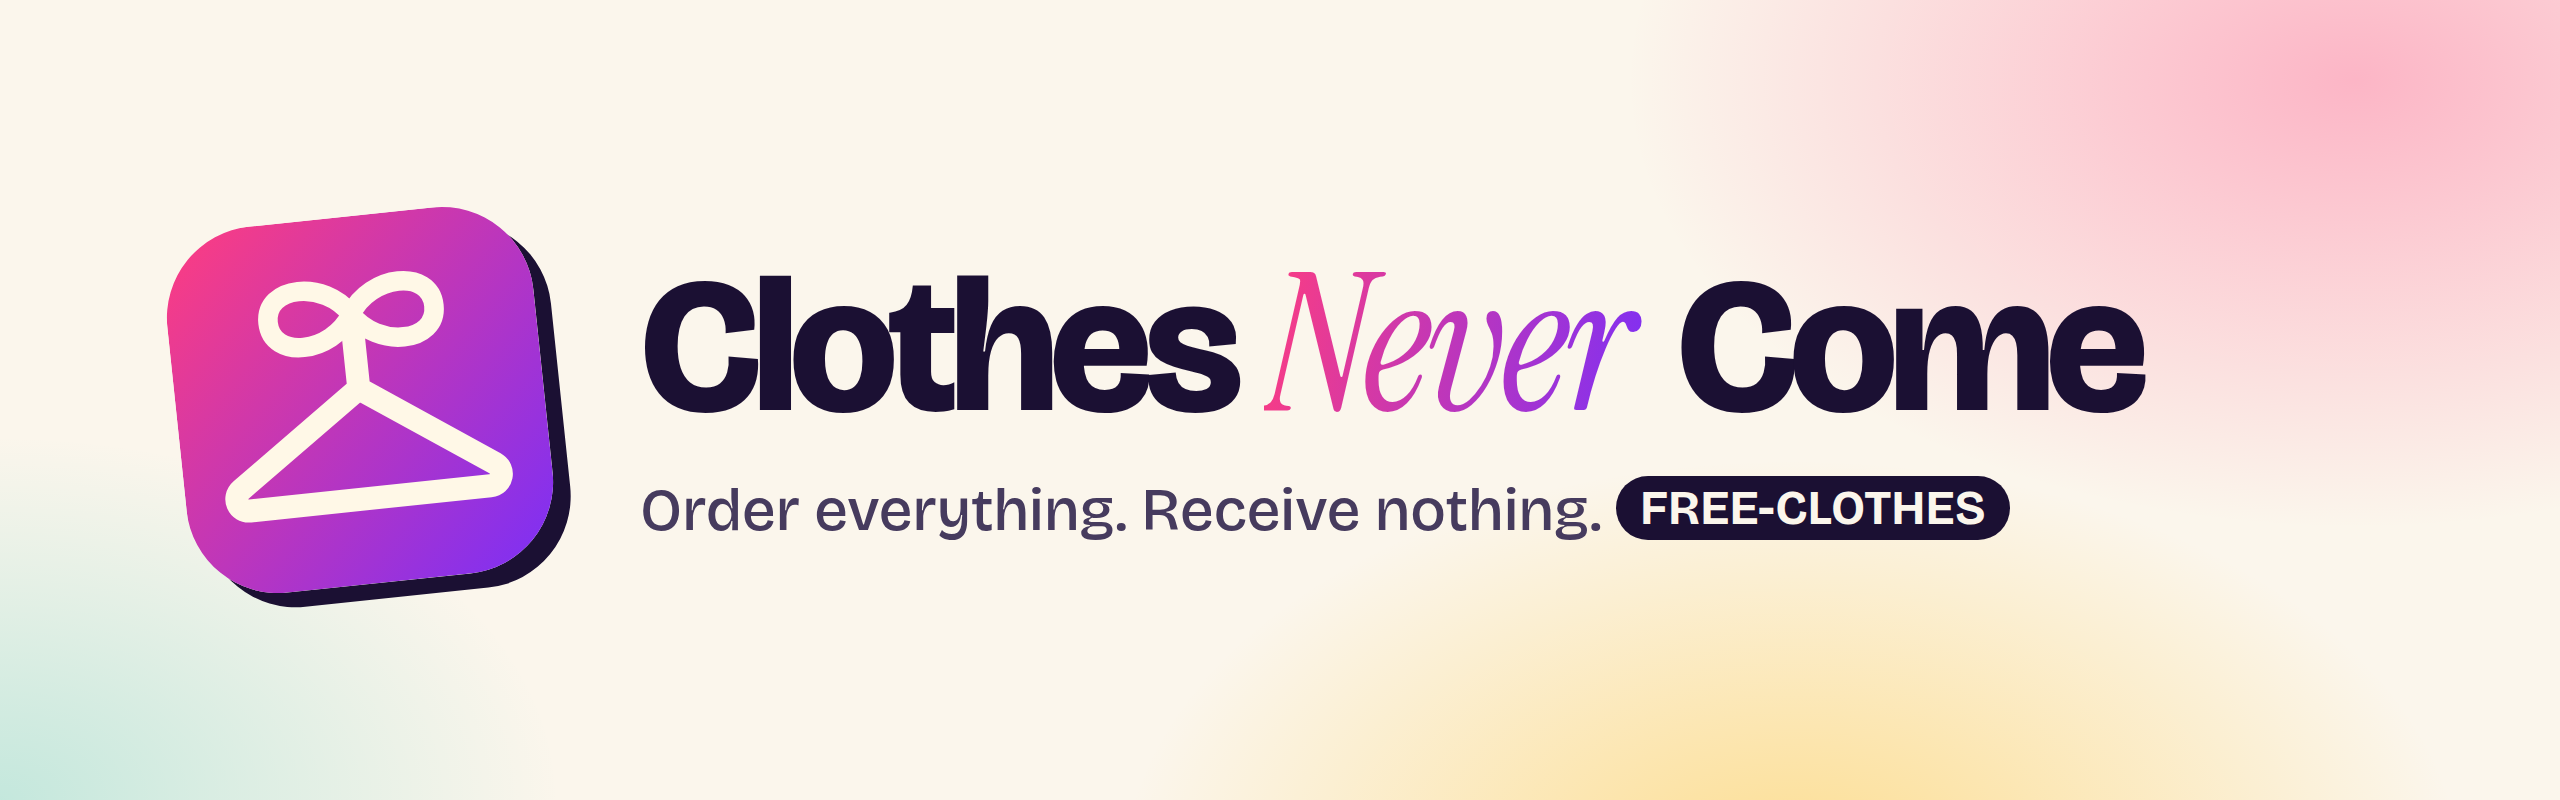
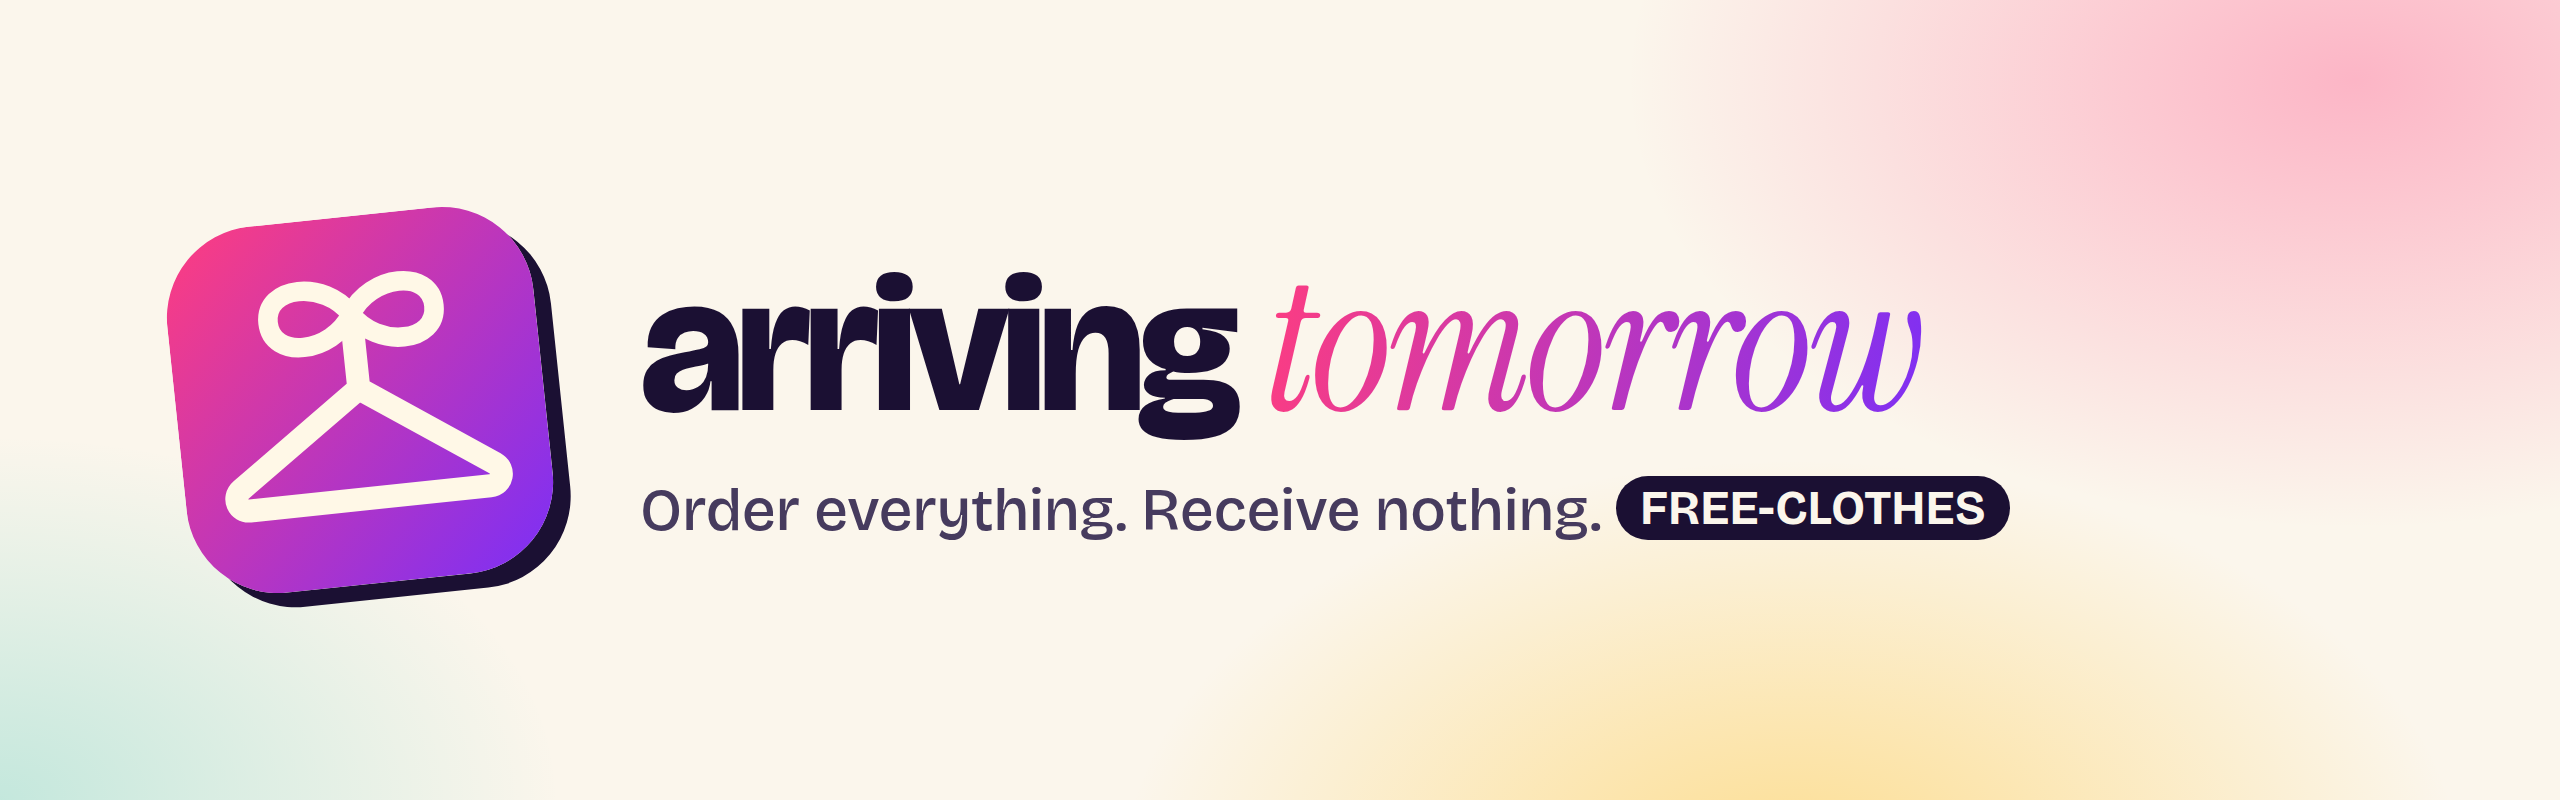
Rename to arriving tomorrow
Clothes Never Come becomes "arriving tomorrow", styled in lowercase, with
the same hanger-and-infinity logo. Updates the header and footer wordmark,
page title, web app manifest and home-screen name, support and gift copy,
README banner, docs and release titles. localStorage keys are unchanged,
so saved carts, orders, achievements and theme settings carry over.

Changed region(s): [[0.25, 0.3438, 0.8438, 0.5625]]

diff --git a/index.html b/index.html
@@ -3,7 +3,7 @@
   <head>
     <meta charset="UTF-8" />
     <meta name="viewport" content="width=device-width, initial-scale=1.0, viewport-fit=cover" />
-    <meta name="description" content="Order anything. It never comes. Free forever with FREE-CLOTHES." />
+    <meta name="description" content="Order anything. It's arriving tomorrow. Forever. Free with FREE-CLOTHES." />
     <link rel="icon" href="/favicon.svg" type="image/svg+xml" />
     <link rel="apple-touch-icon" href="/apple-touch-icon.png" />
     <link rel="manifest" href="/manifest.webmanifest" />
@@ -11,7 +11,7 @@
     <meta name="mobile-web-app-capable" content="yes" />
     <meta name="apple-mobile-web-app-capable" content="yes" />
     <meta name="apple-mobile-web-app-status-bar-style" content="default" />
-    <meta name="apple-mobile-web-app-title" content="Never Come" />
+    <meta name="apple-mobile-web-app-title" content="arriving tomorrow" />
     <script>
       // Apply the saved theme before first paint (key must match src/lib/theme.ts).
       try {
@@ -22,7 +22,7 @@
         if (dark) document.querySelector('meta[name="theme-color"]').setAttribute("content", "#140c26");
       } catch (e) {}
     </script>
-    <title>Clothes Never Come</title>
+    <title>arriving tomorrow</title>
   </head>
   <body>
     <div id="root"></div>

diff --git a/src/lib/support.ts b/src/lib/support.ts
@@ -35,7 +35,7 @@ export function classify(message: string): Intent {
 /** Three tiers per intent: calm, weird, fully unhinged. */
 const LINES: Record<Intent, [string[], string[], string[]]> = {
   greeting: [
-    ["Hi! Thanks for contacting Clothes Never Come. How can I not help you today?"],
+    ["Hi! Thanks for contacting arriving tomorrow. How can I not help you today?"],
     ["Hello again! It's always lovely to hear from a customer who's still waiting."],
     ["Oh. It's you. Hi. The package is fine. Everyone's fine."],
   ],
@@ -116,6 +116,6 @@ export function reply(message: string, turn: number): { intent: Intent; text: st
   return { intent, text: options[turn % options.length] };
 }
 
-export const GREETING = "Hi, I'm Brenda from Clothes Never Come support. Ask me anything about your order, and I'll tell you it's arriving tomorrow.";
+export const GREETING = "Hi, I'm Brenda from arriving tomorrow support. Ask me anything about your order, and I'll tell you when it's coming. (Tomorrow.)";
 
 export const QUICK_REPLIES = ["Where's my order?", "I want a refund", "Does it run true to size?", "Let me speak to a manager"];

diff --git a/src/lib/domGuard.ts b/src/lib/domGuard.ts
@@ -10,7 +10,7 @@ export function installDomGuard() {
   const removeChild = Node.prototype.removeChild;
   Node.prototype.removeChild = function <T extends Node>(this: Node, child: T): T {
     if (child.parentNode !== this) {
-      console.warn("[Clothes Never Come] skipped removeChild on a node that was moved by the browser or an extension");
+      console.warn("[arriving tomorrow] skipped removeChild on a node that was moved by the browser or an extension");
       return child;
     }
     return removeChild.call(this, child) as T;
@@ -19,7 +19,7 @@ export function installDomGuard() {
   const insertBefore = Node.prototype.insertBefore;
   Node.prototype.insertBefore = function <T extends Node>(this: Node, node: T, ref: Node | null): T {
     if (ref && ref.parentNode !== this) {
-      console.warn("[Clothes Never Come] skipped insertBefore relative to a node that was moved by the browser or an extension");
+      console.warn("[arriving tomorrow] skipped insertBefore relative to a node that was moved by the browser or an extension");
       return node;
     }
     return insertBefore.call(this, node, ref) as T;

diff --git a/scripts/fetch-photos.ts b/scripts/fetch-photos.ts
@@ -22,7 +22,7 @@ const ROOT = join(dirname(fileURLToPath(import.meta.url)), "..");
 const MANIFEST = join(ROOT, "src/catalog/photos.json");
 const BLOCKLIST = join(ROOT, "src/catalog/photo-blocklist.json");
 const APPROVED = join(ROOT, "src/catalog/photo-approved.json");
-const UA = "ClothesNeverCome/1.1 (+https://github.com/shankar-sachin/clothesnevercome)";
+const UA = "ArrivingTomorrow/1.1 (+https://github.com/shankar-sachin/clothesnevercome)";
 const MET_DEPARTMENTS = new Set(["The Costume Institute", "Asian Art", "Islamic Art", "The American Wing"]);
 const OPEN_LICENSE = /^(cc0|cc[- ]zero|public domain|pd\b|pd-|cc[- ]by(-sa)?[- ]\d)/i;
 

diff --git a/src/lib/achievements.ts b/src/lib/achievements.ts
@@ -20,7 +20,7 @@ export const ACHIEVEMENTS = [
   { id: "manager", title: "Let me speak to your manager", blurb: "Ask support for a manager." },
   { id: "persistent", title: "Persistent", blurb: "Send customer support 15 messages." },
   { id: "lights-out", title: "Lights out", blurb: "Switch on dark mode." },
-  { id: "home-screen", title: "Home screen hero", blurb: "Open Clothes Never Come as an app from your home screen." },
+  { id: "home-screen", title: "Home screen hero", blurb: "Open arriving tomorrow as an app from your home screen." },
 ] as const;
 
 export type AchievementId = (typeof ACHIEVEMENTS)[number]["id"];

diff --git a/src/pages/GetApp.tsx b/src/pages/GetApp.tsx
@@ -31,7 +31,7 @@ export function GetApp() {
     <Page className="get-app">
       <h1 className="page-title">Get the app <span className="serif">(no App Store required)</span></h1>
       <p className="lede">
-        Clothes Never Come installs straight from your browser. No App Store, no account, no download size worth mentioning, and the
+        arriving tomorrow installs straight from your browser. No App Store, no account, no download size worth mentioning, and the
         same guaranteed non-delivery.
       </p>
       {installed && <p className="saved-banner">You're already using the app. Look at you.</p>}

diff --git a/src/components/Footer.tsx b/src/components/Footer.tsx
@@ -5,7 +5,7 @@ export function Footer() {
   return (
     <footer className="footer">
       <div>
-        <strong className="footer-logo"><LogoMark size={28} className="footer-mark" /><span>Clothes <i>Never</i> Come</span></strong>
+        <strong className="footer-logo"><LogoMark size={28} className="footer-mark" /><span>arriving <i>tomorrow</i></span></strong>
         <p>A parody store. No real products, payments, or deliveries. Nothing you enter leaves your browser.</p>
       </div>
       <p className="footer-fine">

diff --git a/src/components/Header.tsx b/src/components/Header.tsx
@@ -51,7 +51,7 @@ export function Header() {
     <header className={`header ${hidden ? "header-hidden" : ""}`}>
       <Link to="/" className="logo">
         <LogoMark className="logo-mark" />
-        <span className="logo-text">Clothes <i>Never</i> Come</span>
+        <span className="logo-text">arriving <i>tomorrow</i></span>
       </Link>
       <nav className="nav">
         <Link to="/shop/all?aud=women" className={aud === "women" ? "active" : ""}>Women</Link>

diff --git a/src/components/GiftComposer.tsx b/src/components/GiftComposer.tsx
@@ -18,7 +18,7 @@ export function GiftComposer({ order }: { order: Order }) {
   const share = async () => {
     try {
       await navigator.share({
-        title: "A gift from Clothes Never Come",
+        title: "A gift from arriving tomorrow",
         text: `${from.trim() || "Someone"} sent you a gift. It's arriving tomorrow.`,
         url: url(),
       });

diff --git a/src/components/ErrorBoundary.tsx b/src/components/ErrorBoundary.tsx
@@ -19,7 +19,7 @@ export class ErrorBoundary extends Component<Props, State> {
   }
 
   componentDidCatch(error: Error, info: ErrorInfo) {
-    console.error("[Clothes Never Come] render error:", error, info.componentStack);
+    console.error("[arriving tomorrow] render error:", error, info.componentStack);
   }
 
   componentDidUpdate(prev: Props) {

diff --git a/docs/PLAN.md b/docs/PLAN.md
@@ -1,4 +1,6 @@
-# Clothes Never Come: Build Plan
+# arriving tomorrow: Build Plan
+
+*(Formerly Clothes Never Come.)*
 
 > A full online-shopping experience. Browse thousands of garments, fill your cart,
 > check out for $0.00 with the auto-applied `FREE-CLOTHES` coupon, and then
@@ -206,7 +208,7 @@ A **Try it on** button on product pages opens the camera and overlays the garmen
 ### How A works
 1. **Garment cut-outs:** v1.2.0's AI photos are generated on a plain backdrop, so a background-removal pass (`rembg`, or keying out the known studio colour) produces a transparent PNG per product at generation time.
 2. **Anchors per silhouette:** tops, jackets, and coats map to shoulders and hips; dresses, gowns, sarees, and lehengas to shoulders and ankles; trousers and skirts to hips and knees or ankles; hats, turbans, and bonnets to the head; scarves and dupattas to the neck and shoulders. Shoes are skipped (feet tracking is unreliable).
-3. **Render:** each frame, scale, rotate, and lightly mesh-warp the cut-out to the pose landmarks on a `<canvas>` over the camera feed. Add a **snapshot** button (saved locally, with a "Clothes Never Come — it never came" frame) for shareable silliness.
+3. **Render:** each frame, scale, rotate, and lightly mesh-warp the cut-out to the pose landmarks on a `<canvas>` over the camera feed. Add a **snapshot** button (saved locally, with a "arriving tomorrow — it never came" frame) for shareable silliness.
 4. **Privacy:** the camera stream and model run on-device. No uploads and no storage, and the page says so. Without camera permission, or on old devices, fall back to the existing product photo.
 5. **Performance:** lazy-load the pose model (a few MB) only when you tap **Try it on**, target 30 fps on mid-range phones, and respect `prefers-reduced-motion`.
 

diff --git a/README.md b/README.md
@@ -1,5 +1,5 @@
 <h1 align="center">
-  <img src="docs/brand/banner.png" alt="Clothes Never Come: Order everything. Receive nothing." width="100%">
+  <img src="docs/brand/banner.png" alt="arriving tomorrow: Order everything. Receive nothing." width="100%">
 </h1>
 
 [![CI](https://github.com/shankar-sachin/clothesnevercome/actions/workflows/ci.yml/badge.svg)](https://github.com/shankar-sachin/clothesnevercome/actions/workflows/ci.yml)
@@ -13,7 +13,7 @@
 [![Deliveries](https://img.shields.io/badge/deliveries-0-1b1033)](#)
 [![Coupon](https://img.shields.io/badge/coupon-FREE--CLOTHES-00b4a6)](#)
 
-The online store where you can order anything you want, and none of it ever arrives.
+**arriving tomorrow** (formerly Clothes Never Come) is the online store where you can order anything you want, and none of it ever arrives.
 
 Browse thousands of garments from India, America, and classical Europe. Fill your cart.
 Check out for **$0.00**: the details fill themselves in and the `FREE-CLOTHES` coupon applies automatically.
